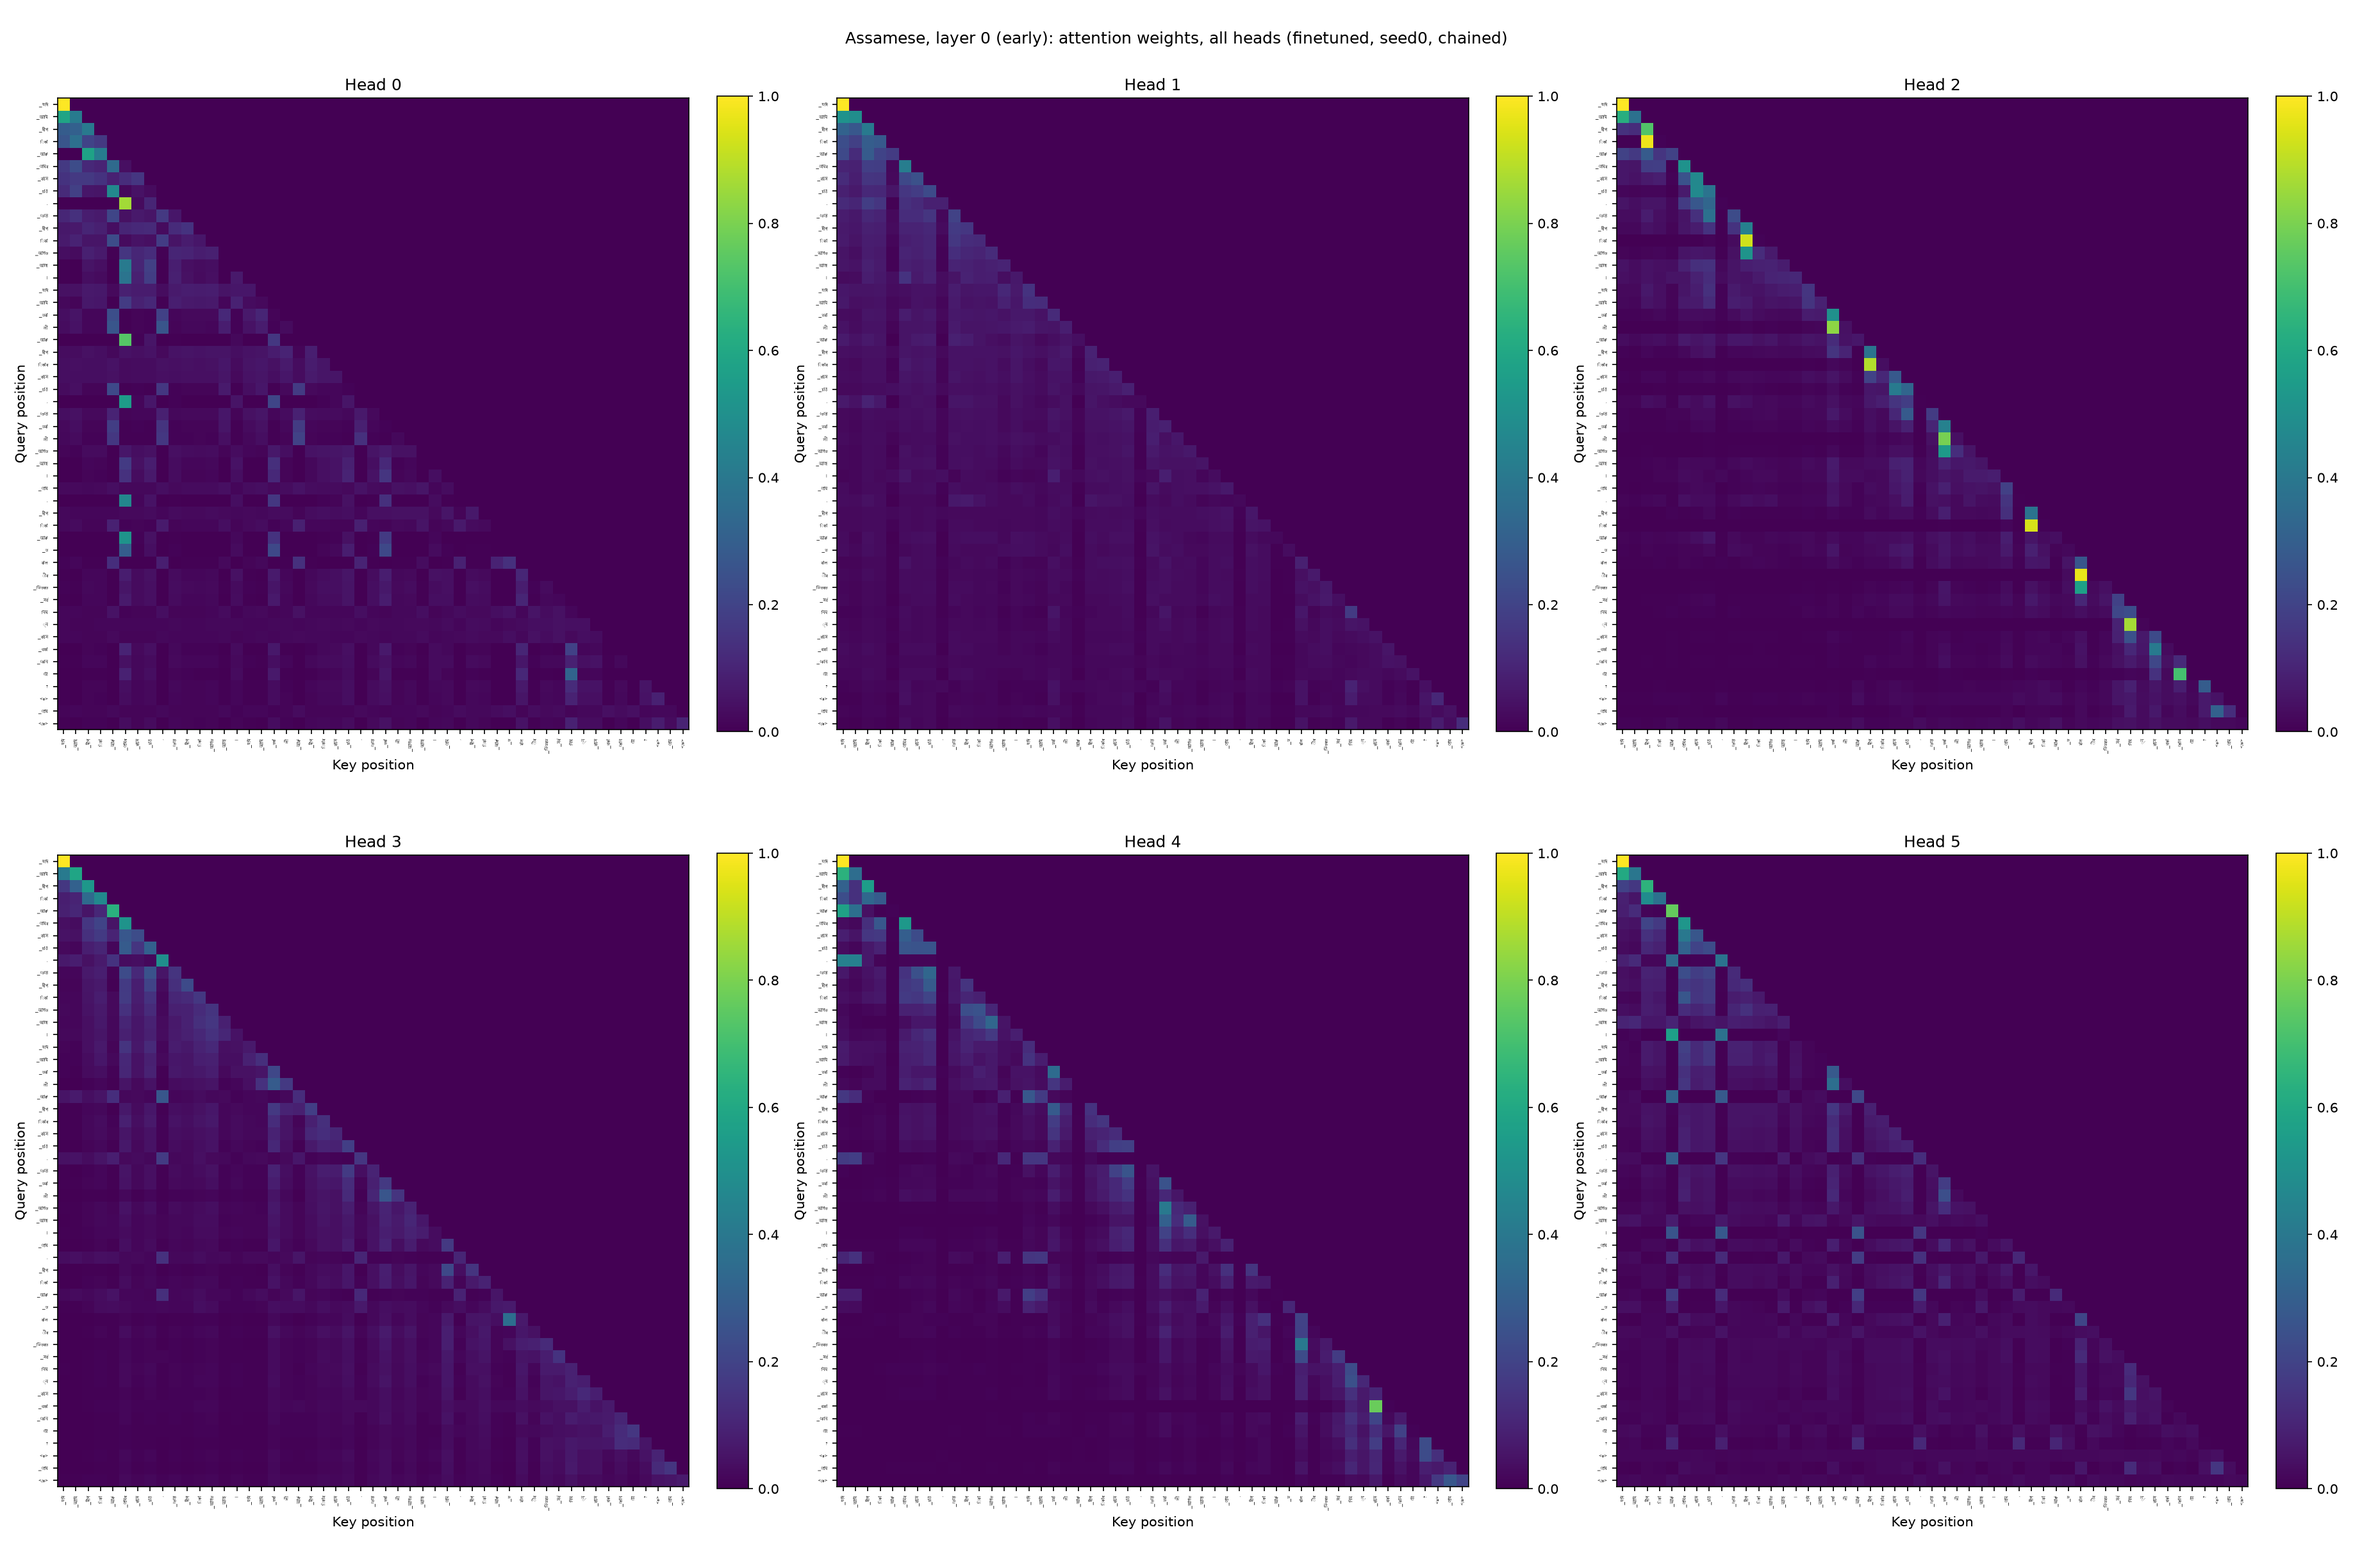
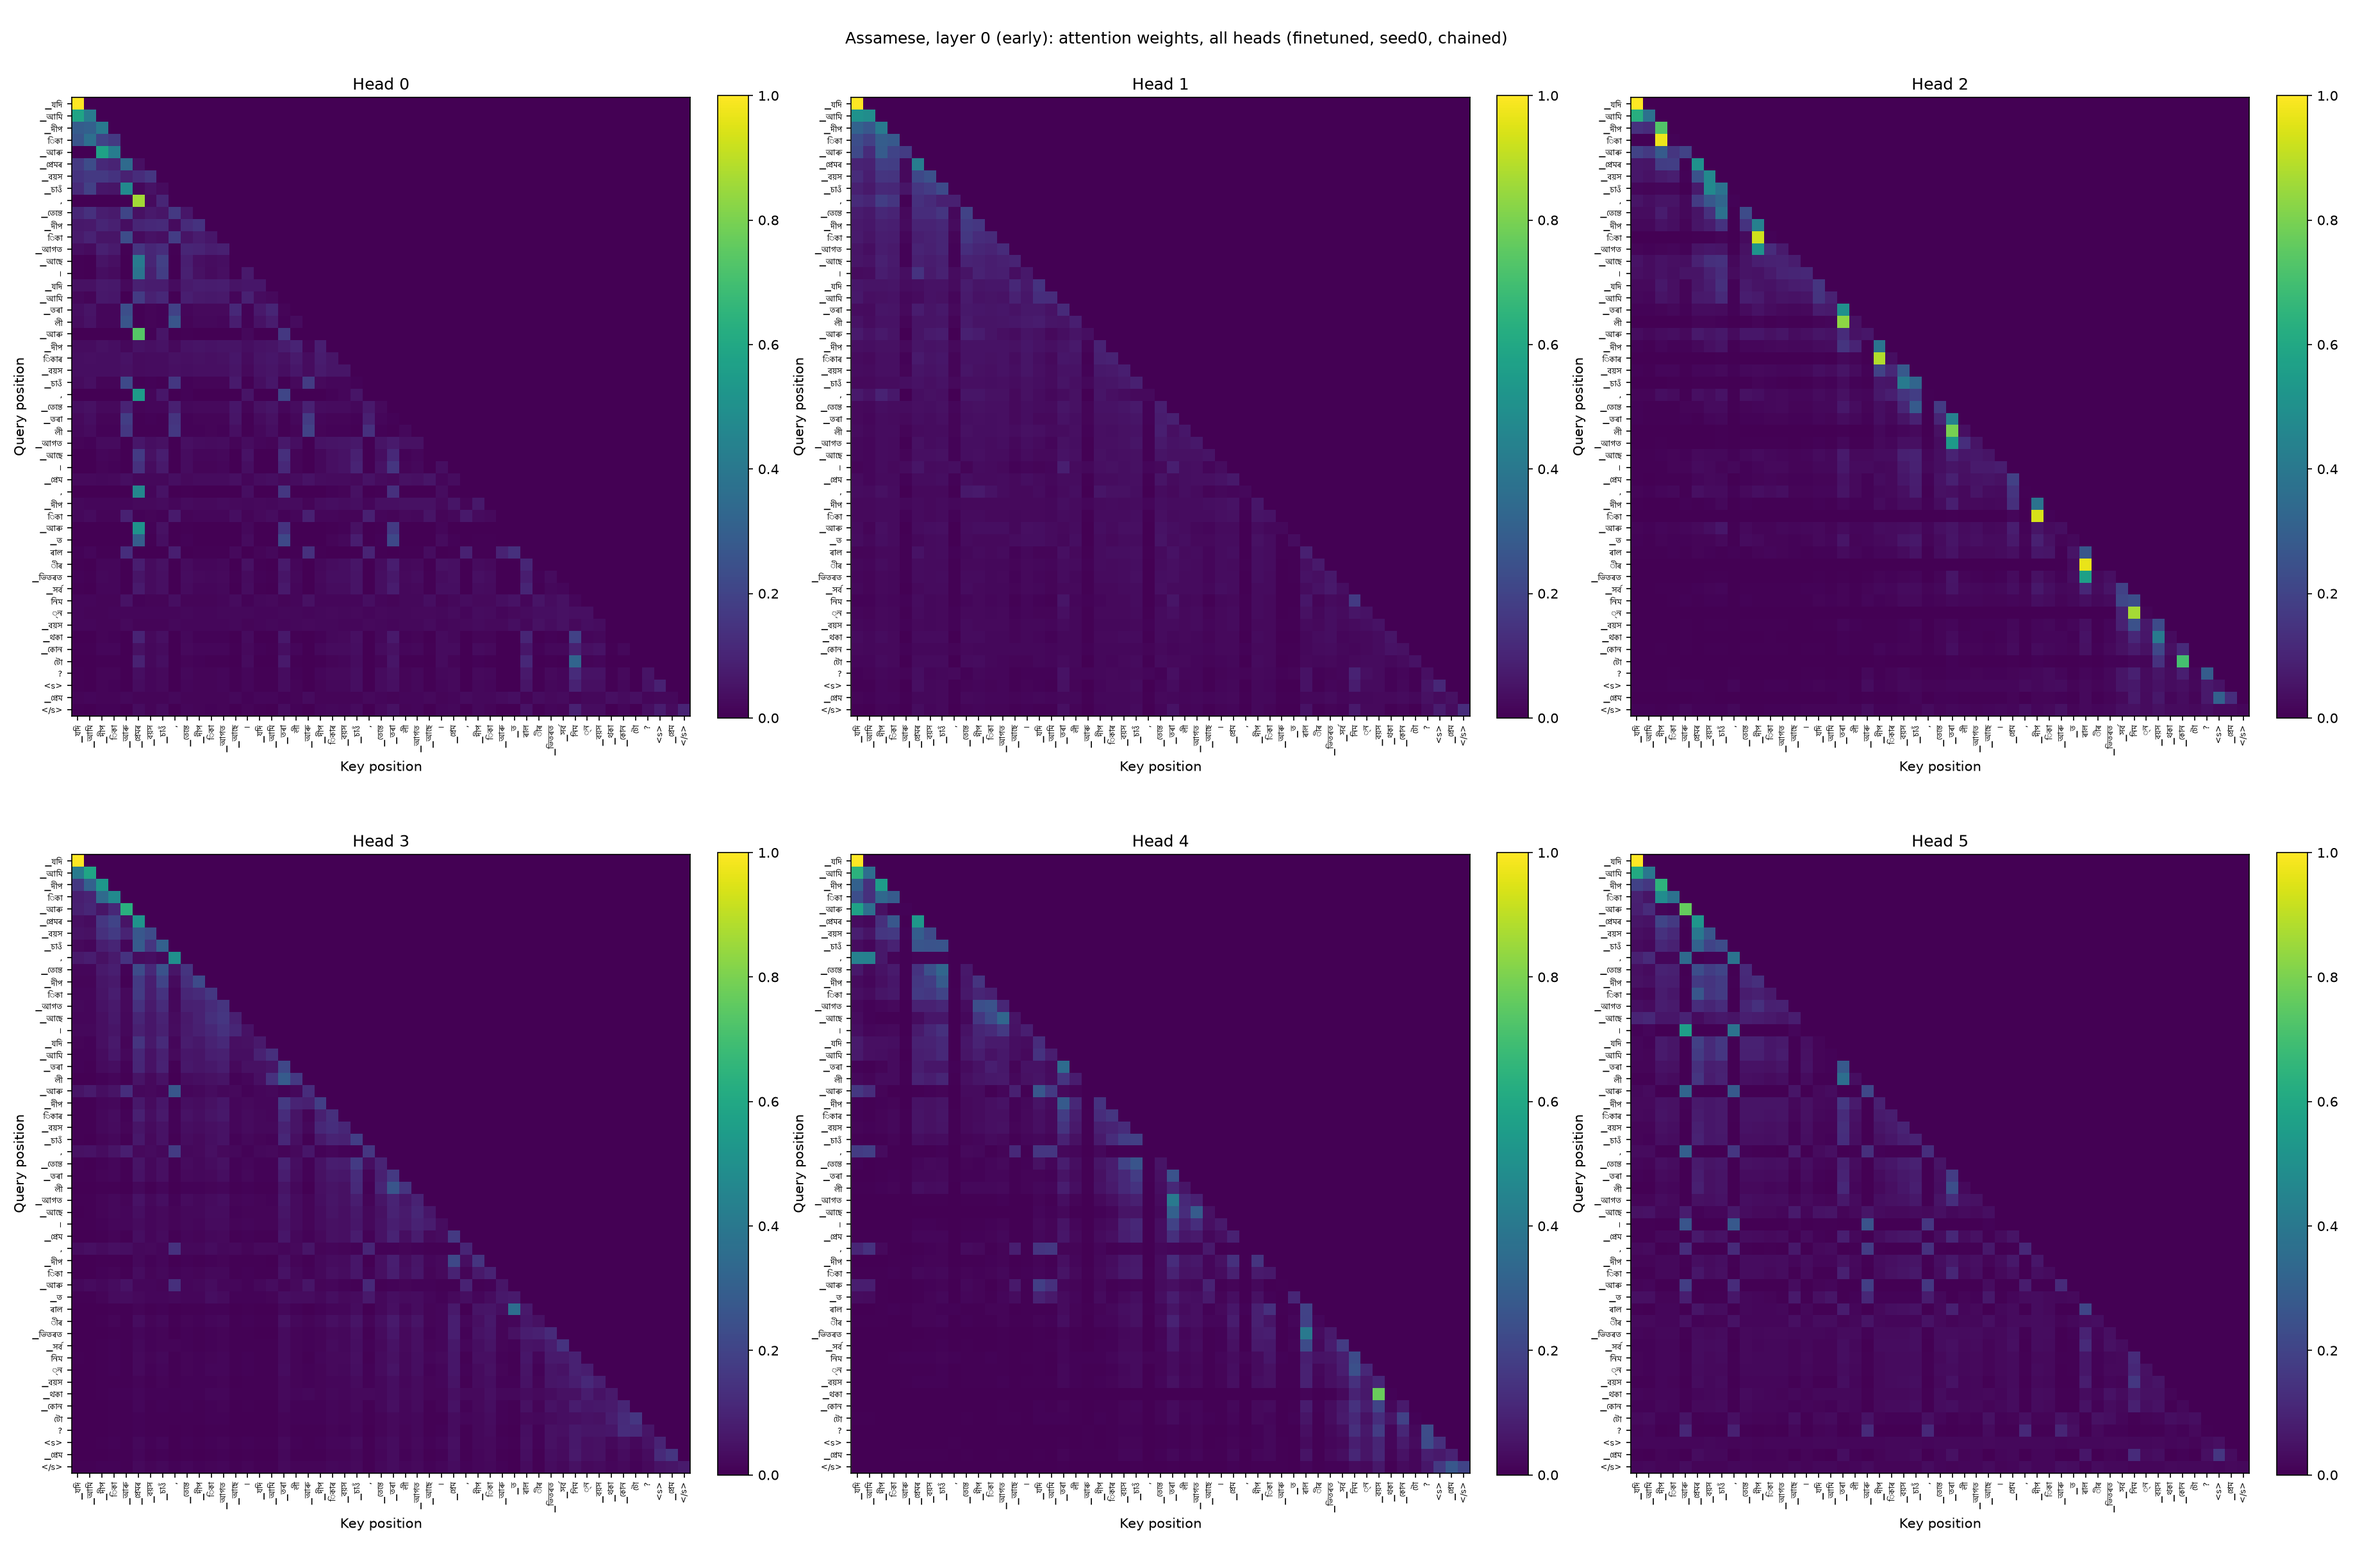
Keep fixed tick font in attention heatmaps, rely on figure scaling only
Previous fix shrank font on long sequences down to near-unreadable
sizes. Figure size already scales enough to fit a fixed font without
overlap, so drop the font-shrinking.

diff --git a/assamese/eval/attention_analysis.py b/assamese/eval/attention_analysis.py
@@ -135,10 +135,12 @@ def plot_heatmaps(attn_layer, pieces, layer_label, out_path, title_suffix=""):
     ncols = min(3, n_head)
     nrows = (n_head + ncols - 1) // ncols
     # Longer sequences (Phase 3 full prompt+answer, T ~50) need more room
-    # per token and a smaller font than Phase 2's short single sentences
-    # (T ~10-15) did, or tick labels overlap into unreadable text.
+    # per token than Phase 2's short single sentences (T ~10-15) did, or
+    # tick labels overlap into unreadable text. Scaling the figure size
+    # keeps per-row spacing ahead of the fixed 6pt font, so the font
+    # itself never needs to shrink.
     cell_in = max(4.2, T * 0.16)
-    tick_fontsize = 6 if T <= 20 else max(3, int(6 * 20 / T))
+    tick_fontsize = 6
     fig, axes = plt.subplots(nrows, ncols, figsize=(cell_in * ncols, cell_in * nrows))
     axes = axes.flatten() if n_head > 1 else [axes]
     for h in range(n_head):

diff --git a/hindi/eval/attention_analysis.py b/hindi/eval/attention_analysis.py
@@ -135,10 +135,12 @@ def plot_heatmaps(attn_layer, pieces, layer_label, out_path, title_suffix=""):
     ncols = min(3, n_head)
     nrows = (n_head + ncols - 1) // ncols
     # Longer sequences (Phase 3 full prompt+answer, T ~50) need more room
-    # per token and a smaller font than Phase 2's short single sentences
-    # (T ~10-15) did, or tick labels overlap into unreadable text.
+    # per token than Phase 2's short single sentences (T ~10-15) did, or
+    # tick labels overlap into unreadable text. Scaling the figure size
+    # keeps per-row spacing ahead of the fixed 6pt font, so the font
+    # itself never needs to shrink.
     cell_in = max(4.2, T * 0.16)
-    tick_fontsize = 6 if T <= 20 else max(3, int(6 * 20 / T))
+    tick_fontsize = 6
     fig, axes = plt.subplots(nrows, ncols, figsize=(cell_in * ncols, cell_in * nrows))
     axes = axes.flatten() if n_head > 1 else [axes]
     for h in range(n_head):
